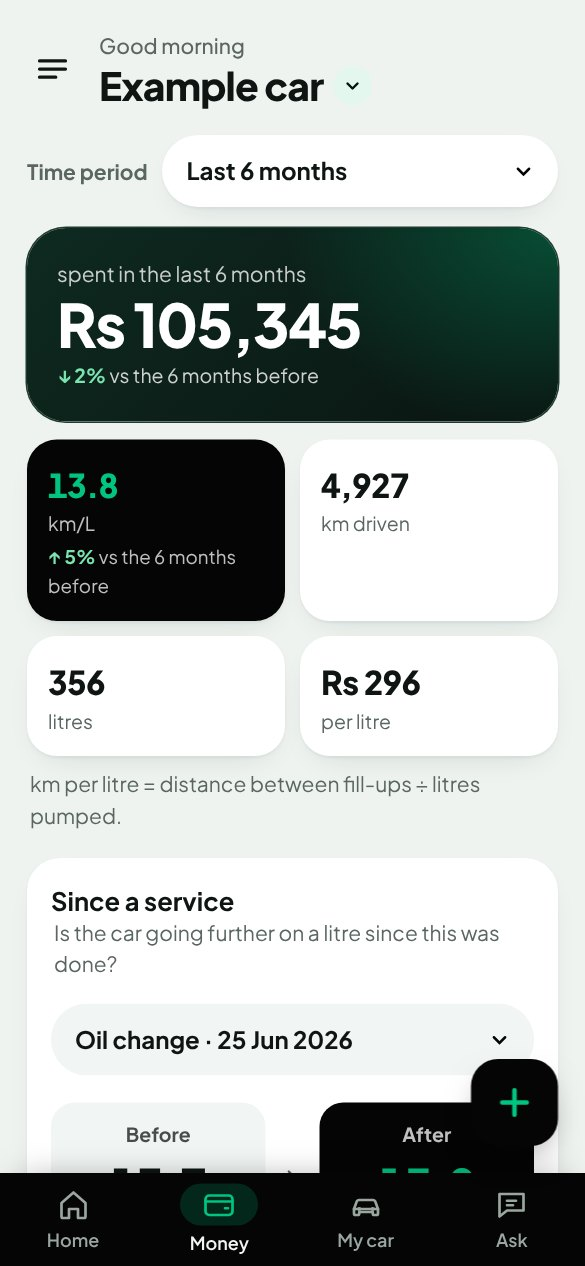
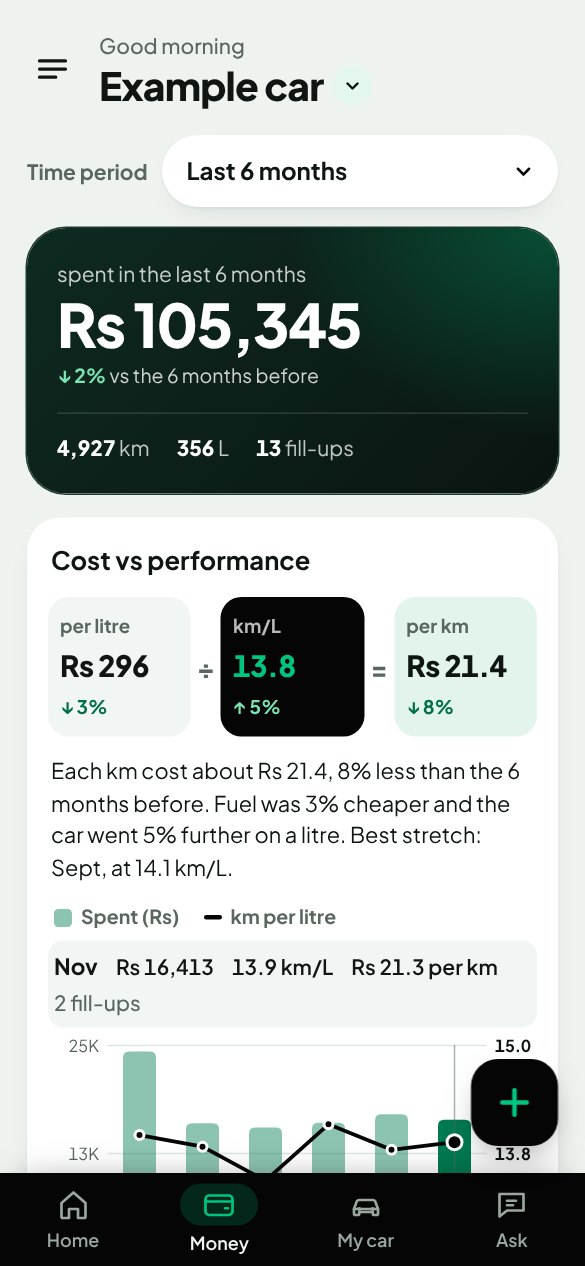
Money: cost vs performance analysis, combined spend and km/L chart, cost per km, last five fill-ups
Claude-Session: https://claude.ai/code/session_01FM4jDjDSFjWPSRL6SLVU9D

diff --git a/app.js b/app.js
@@ -341,14 +341,16 @@ function fuelStats(v, start, end) {
   const spent = rows.reduce((s, x) => s + x.total, 0), litres = rows.reduce((s, x) => s + x.litres, 0), k = rows.filter(x => x.kpl);
   const km = k.reduce((s, x) => s + x.dist, 0), kl = k.reduce((s, x) => s + x.litres, 0);
   // km per litre = distance driven between fill-ups / litres pumped (needs a full tank each time)
-  return { fills: rows.length, spent, litres, km, price: litres ? spent / litres : null, kpl: kl ? km / kl : null };
+  const price = litres ? spent / litres : null, kpl = kl ? km / kl : null;
+  // cost of each km driven = price per litre ÷ km per litre
+  return { fills: rows.length, spent, litres, km, price, kpl, ckm: price && kpl ? price / kpl : null };
 }
 function periodData(v, p) {
   const bs = buckets(p), start = bs[0].start, end = bs.at(-1).end;
   const span = daysTo(end) - daysTo(start), prevStart = addDaysISO(start, -span);
   // Only compare when the records reach back far enough to cover the whole earlier period.
   const first = mine(db.fuel, v).map(x => x.date).sort()[0], covered = first && daysTo(first) <= daysTo(prevStart) + 20;
-  const prev = covered ? fuelStats(v, prevStart, start) : { fills: 0, spent: 0, litres: 0, km: 0, price: null, kpl: null };
+  const prev = covered ? fuelStats(v, prevStart, start) : { fills: 0, spent: 0, litres: 0, km: 0, price: null, kpl: null, ckm: null };
   return { bs: bs.map(b => ({ ...b, ...fuelStats(v, b.start, b.end) })), cur: fuelStats(v, start, end), prev };
 }
 
@@ -981,72 +983,100 @@ function delta(cur, prev, goodWhenUp, per) {
   return `<span class="cmp"><span class="chg ${good ? 'up' : 'down'}">${pct > 0 ? '↑' : '↓'} ${Math.abs(r)}%</span> ${esc(t('vsPrev', t('prev_' + per)))}</span>`;
 }
 
+const fillRow = x => `<li><button class="item" data-act="fuelDetail" data-id="${x.id}"><span class="ic plain">${svg(ICONS.fuel)}</span><span class="it"><span class="t">${esc(t('rs', n0(x.total)))}</span><span class="s">${fmtD(x.date)}</span></span><span class="side">${x.kpl ? esc(t('kpl', n1(x.kpl))) : ''}${x.dist ? `<small>${esc(t('kmShort', n0(x.dist)))}</small>` : ''}</span><span class="chev">${svg(ICONS.chev)}</span></button></li>`;
+function allFills() {
+  const rows = fuelRows(veh()).reverse();
+  infoSheet(t('allFillsTitle'), `<ul class="list mini">${rows.map(fillRow).join('')}</ul>`, `<button class="btn wide" data-act="addFuel">${esc(t('addFuelTitle'))}</button>`);
+}
+const pctOf = (cur, prev) => cur != null && prev ? (cur - prev) / prev * 100 : null;
+// One cell of the cost equation: price per litre ÷ km per litre = cost per km.
+function eqCell(cls, label, val, pct, goodWhenUp) {
+  const chg = pct == null ? '' : Math.abs(pct) < 1 ? `<span class="cmp">${esc(t('flat'))}</span>`
+    : `<span class="cmp"><span class="chg ${(pct > 0) === goodWhenUp ? 'up' : 'down'}">${pct > 0 ? '↑' : '↓'} ${Math.abs(Math.round(pct))}%</span></span>`;
+  return `<div class="eq-c ${cls}"><span class="l">${esc(label)}</span><span class="n">${val}</span>${chg}</div>`;
+}
 function viewMoney(v) {
   const rows = fuelRows(v).reverse();
   const yearAgo = addDaysISO(todayISO(), -365), svcSpent = mine(db.service, v).filter(s => s.date >= yearAgo).reduce((s, x) => s + (x.cost || 0), 0);
   if (!rows.length) return `${header(v)}<div class="empty"><b>${esc(t('noFuelTitle'))}</b>${esc(t('noFuelText'))}</div><div class="actions"><button class="btn wide" data-act="addFuel">${esc(t('addFuelTitle'))}</button></div>`;
   const d = periodData(v, period), c = d.cur, p = d.prev, nudge = fuelNudge(v);
+  const pp = pctOf(c.price, p.price), kp = pctOf(c.kpl, p.kpl), cp = pctOf(c.ckm, p.ckm);
+  // Plain-words reading of the numbers: what moved the cost of each km.
+  let insight = c.ckm ? t('insCkm', n1(c.ckm)) : t('insNoKpl');
+  if (cp != null && pp != null && kp != null) insight = t('insCkmChg', n1(c.ckm), Math.abs(Math.round(cp)), cp < 0, Math.abs(cp) < 1, t('prev_' + period)) + ' ' + t('insWhy', Math.abs(Math.round(pp)), pp > 0, Math.abs(pp) < 1, Math.abs(Math.round(kp)), kp > 0, Math.abs(kp) < 1);
+  const best = d.bs.filter(x => x.kpl).sort((x, y) => y.kpl - x.kpl)[0];
+  if (best && d.bs.filter(x => x.kpl).length > 2) insight += ' ' + t('insBest', best.label, n1(best.kpl));
   return `${header(v)}
   ${nudge ? nudgeCard(nudge) : ''}
   <div class="period"><label for="periodSel">${esc(t('periodLabel'))}</label><select id="periodSel" class="pill-select">${PERIODS.map(k => `<option value="${k}" ${k === period ? 'selected' : ''}>${esc(t('pl_' + k))}</option>`).join('')}</select></div>
   ${period === 'C' ? `<div class="two range"><div><label for="cFrom">${esc(t('fromDate'))}</label><input type="date" id="cFrom" value="${cFrom}" max="${cTo}"></div><div><label for="cTo">${esc(t('toDate'))}</label><input type="date" id="cTo" value="${cTo}" min="${cFrom}" max="${todayISO()}"></div></div>` : ''}
-  <section class="hero-num"><p class="l">${esc(t('spentIn', t('per_' + period, fmtD(cFrom), fmtD(cTo))))}</p><p class="n">${esc(t('rs', n0(c.spent)))}</p>${delta(c.spent, p.spent, false, period)}</section>
-  <div class="stats">
-    <div class="stat key"><span class="n">${c.kpl ? n1(c.kpl) : '–'}</span><span class="l">${esc(t('kplUnit'))}</span>${c.kpl && p.kpl ? delta(c.kpl, p.kpl, true, period) : ''}</div>
-    <div class="stat"><span class="n">${c.km ? n0(c.km) : '–'}</span><span class="l">${esc(t('kmDriven'))}</span></div>
-    <div class="stat"><span class="n">${n0(c.litres)}</span><span class="l">${esc(t('litresWord'))}</span></div>
-    <div class="stat"><span class="n">${c.price ? esc(t('rs', n0(c.price))) : '–'}</span><span class="l">${esc(t('perLitre'))}</span></div>
-  </div>
-  <p class="hint kpl-how">${esc(t('kplHow'))}</p>
-  ${perfCard(v)}
-  <section class="chart-card">
+  <section class="hero-num"><p class="l">${esc(t('spentIn', t('per_' + period, fmtD(cFrom), fmtD(cTo))))}</p><p class="n">${esc(t('rs', n0(c.spent)))}</p>${delta(c.spent, p.spent, false, period)}
+    <div class="hero-sub"><span><b>${n0(c.km)}</b> ${esc(t('km'))}</span><span><b>${n0(c.litres)}</b> ${esc(t('litreUnit'))}</span><span><b>${c.fills}</b> ${esc(t('colFills').toLowerCase())}</span></div></section>
+  <section class="anal">
+    <h2>${esc(t('costVsPerf'))}</h2>
+    <div class="eq">
+      ${eqCell('', t('perLitre'), c.price ? esc(t('rs', n0(c.price))) : '–', pp, false)}<span class="eq-op">÷</span>
+      ${eqCell('key', t('kplUnit'), c.kpl ? n1(c.kpl) : '–', kp, true)}<span class="eq-op">=</span>
+      ${eqCell('res', t('rsPerKm'), c.ckm ? esc(t('rs', n1(c.ckm))) : '–', cp, false)}
+    </div>
+    <p class="insight">${esc(insight)}</p>
+    <div class="legend"><span><i class="sw bar"></i>${esc(t('legSpent'))}</span><span><i class="sw ln"></i>${esc(t('legKpl'))}</span></div>
     <div class="readout" id="readout" aria-live="polite"></div>
-    <p class="chart-h">${esc(t('chartSpent'))}</p><div class="chart" id="ch-spent"></div>
-    <p class="chart-h">${esc(t('chartPrice'))}</p><div class="chart" id="ch-price"></div>
-    <details class="tbl"><summary>${esc(t('seeNumbers'))}</summary><div class="tbl-wrap"><table><thead><tr><th>${esc(t('colPeriod'))}</th><th>${esc(t('colSpent'))}</th><th>${esc(t('colPrice'))}</th><th>${esc(t('colFills'))}</th></tr></thead>
-      <tbody>${d.bs.slice().reverse().map(b => `<tr><td>${esc(b.label)}</td><td>${b.fills ? esc(t('rs', n0(b.spent))) : '–'}</td><td>${b.price ? esc(t('rs', n1(b.price))) : '–'}</td><td>${b.fills}</td></tr>`).join('')}</tbody></table></div></details>
+    <div class="chart" id="ch-combo"></div>
+    <p class="chart-h">${esc(t('chartCkm'))}</p><div class="chart" id="ch-ckm"></div>
+    <details class="tbl"><summary>${esc(t('seeNumbers'))}</summary><div class="tbl-wrap"><table><thead><tr><th>${esc(t('colPeriod'))}</th><th>${esc(t('colSpent'))}</th><th>${esc(t('kplUnit'))}</th><th>${esc(t('colCkm'))}</th><th>${esc(t('colPrice'))}</th></tr></thead>
+      <tbody>${d.bs.slice().reverse().map(b => `<tr><td>${esc(b.label)}</td><td>${b.fills ? esc(t('rs', n0(b.spent))) : '–'}</td><td>${b.kpl ? n1(b.kpl) : '–'}</td><td>${b.ckm ? n1(b.ckm) : '–'}</td><td>${b.price ? n0(b.price) : '–'}</td></tr>`).join('')}</tbody></table></div></details>
+    <p class="hint kpl-how">${esc(t('kplHow'))}</p>
   </section>
+  ${perfCard(v)}
   <div class="stats one"><div class="stat"><span class="n">${esc(t('rs', n0(svcSpent)))}</span><span class="l">${esc(t('svcSpent12'))}</span></div></div>
-  <h2>${esc(t('fillUps'))}</h2>
-  <ul class="list">${rows.slice(0, 20).map(x => `<li><button class="item" data-act="fuelDetail" data-id="${x.id}"><span class="ic plain">${svg(ICONS.fuel)}</span><span class="it"><span class="t">${esc(t('rs', n0(x.total)))}</span><span class="s">${fmtD(x.date)}</span></span><span class="side">${x.kpl ? esc(t('kpl', n1(x.kpl))) : ''}${x.dist ? `<small>${esc(t('kmShort', n0(x.dist)))}</small>` : ''}</span><span class="chev">${svg(ICONS.chev)}</span></button></li>`).join('')}</ul>
-  ${rows.length > 20 ? `<p class="hint">${esc(t('showingRecent', 20, rows.length))}</p>` : ''}
-  <p class="hint">${esc(t('fillAssumption'))}</p>
-  <p class="hint">${esc(t('stationNote'))}</p>`;
+  <div class="sec-h"><h2>${esc(t('recentFills'))}</h2>${rows.length > 5 ? `<button class="link-btn" data-act="allFills">${esc(t('seeAllFills', rows.length))}</button>` : ''}</div>
+  <ul class="list">${rows.slice(0, 5).map(fillRow).join('')}</ul>
+  <p class="hint">${esc(t('fillAssumption'))} ${esc(t('stationNote'))}</p>`;
 }
 
 // ---------- charts (hand-drawn SVG, works offline) ----------
 const compact = n => n >= 1e6 ? n1(n / 1e6) + 'M' : n >= 1e4 ? Math.round(n / 1e3) + 'K' : n0(n);
 function niceMax(m) { if (!(m > 0)) return 1; const p = 10 ** Math.floor(Math.log10(m)), f = m / p; return (f <= 1 ? 1 : f <= 2 ? 2 : f <= 2.5 ? 2.5 : f <= 5 ? 5 : 10) * p; }
 function drawFuelCharts(v) {
-  const sp = $('#ch-spent'), pr = $('#ch-price'); if (!sp || !pr) return;
+  const cb = $('#ch-combo'), ck = $('#ch-ckm'); if (!cb || !ck) return;
   const d = periodData(v, period), bs = d.bs, n = bs.length;
   if (fsel == null || fsel >= n) fsel = n - 1;
-  const W = Math.max(260, sp.clientWidth), H = 140, L = 44, Rr = 8, T = 10, B = 26, iw = W - L - Rr, ih = H - T - B, slot = iw / n;
-  const every = Math.ceil(n / Math.max(3, Math.floor(iw / 52)));
-  const xLabels = bs.map((b, i) => (i % every === (n - 1) % every) ? `<text class="ax" x="${L + slot * i + slot / 2}" y="${H - 8}" text-anchor="middle">${esc(b.label)}</text>` : '').join('');
-  const hits = bs.map((b, i) => `<rect class="hit" data-i="${i}" x="${L + slot * i}" y="${T}" width="${slot}" height="${ih}" tabindex="0" aria-label="${esc(b.label)}"></rect>`).join('');
-  const sMax = niceMax(Math.max(...bs.map(b => b.spent)));
-  const yS = val => T + ih - val / sMax * ih, bw = Math.min(24, Math.max(3, slot - 2));
-  const grid = (max, fmt) => [0, 0.5, 1].map(f => `<line class="grid" x1="${L}" x2="${W - Rr}" y1="${T + ih - f * ih}" y2="${T + ih - f * ih}"></line><text class="ax" x="${L - 6}" y="${T + ih - f * ih + 4}" text-anchor="end">${esc(fmt(max * f))}</text>`).join('');
-  const bars = bs.map((b, i) => { if (!b.spent) return ''; const x = L + slot * i + (slot - bw) / 2, y = yS(b.spent), h = T + ih - y, r = Math.min(4, bw / 2, h);
-    return `<path class="bar ${i === fsel ? 'sel' : ''}" data-b="${i}" d="M${x} ${T + ih}V${y + r}Q${x} ${y} ${x + r} ${y}H${x + bw - r}Q${x + bw} ${y} ${x + bw} ${y + r}V${T + ih}Z"></path>`; }).join('');
-  sp.innerHTML = `<svg width="${W}" height="${H}" viewBox="0 0 ${W} ${H}" role="img" aria-label="${esc(t('chartSpent'))}">${grid(sMax, compact)}${bars}${xLabels}${hits}</svg>`;
-  const ps = bs.map(b => b.price).filter(Boolean);
-  if (!ps.length) pr.innerHTML = `<p class="hint">${esc(t('noFuelInPeriod'))}</p>`;
+  const W = Math.max(260, cb.clientWidth), L = 40, T = 12, B = 24;
+  const every = Math.ceil(n / Math.max(3, Math.floor((W - 80) / 52)));
+  const frame = (H, R) => { const iw = W - L - R, ih = H - T - B, slot = iw / n; return { H, R, iw, ih, slot, cx: i => L + slot * i + slot / 2 }; };
+  const xLabels = f => bs.map((b, i) => (i % every === (n - 1) % every) ? `<text class="ax" x="${f.cx(i)}" y="${f.H - 6}" text-anchor="middle">${esc(b.label)}</text>` : '').join('');
+  const hits = f => bs.map((b, i) => `<rect class="hit" data-i="${i}" x="${L + f.slot * i}" y="${T}" width="${f.slot}" height="${f.ih}" tabindex="0" aria-label="${esc(b.label)}"></rect>`).join('');
+  // a padded range for a line, so small changes are visible but not exaggerated
+  const span = (vals, step) => { let lo = Math.min(...vals), hi = Math.max(...vals); const pad = Math.max(step, (hi - lo) * 0.3); return [Math.max(0, Math.floor((lo - pad) / step) * step), Math.ceil((hi + pad) / step) * step]; };
+  const linePath = (f, key, y) => { let path = '', pen = false; bs.forEach((b, i) => { if (!b[key]) { pen = false; return; } path += `${pen ? 'L' : 'M'}${f.cx(i)} ${y(b[key])}`; pen = true; }); return path; };
+  const dots = (f, key, y, cls) => bs.map((b, i) => b[key] ? `<circle class="pt ${cls} ${i === fsel ? 'sel' : ''}" data-b="${i}" cx="${f.cx(i)}" cy="${y(b[key])}" r="${i === fsel ? 5 : (n > 24 ? 0 : 3)}"></circle>` : '').join('');
+  const cross = (f, id) => `<line class="cross" id="${id}" x1="0" x2="0" y1="${T}" y2="${T + f.ih}"></line>`;
+
+  // 1. Spend (bars, left axis) against km per litre (line, right axis)
+  const f1 = frame(180, 34), sMax = niceMax(Math.max(...bs.map(b => b.spent)));
+  const yS = val => T + f1.ih - val / sMax * f1.ih, bw = Math.min(22, Math.max(3, f1.slot - 3));
+  const ks = bs.map(b => b.kpl).filter(Boolean), [kLo, kHi] = ks.length ? span(ks, 0.5) : [0, 1], yK = val => T + f1.ih - (val - kLo) / (kHi - kLo) * f1.ih;
+  const grid1 = [0, 0.5, 1].map(q => `<line class="grid" x1="${L}" x2="${W - f1.R}" y1="${T + f1.ih - q * f1.ih}" y2="${T + f1.ih - q * f1.ih}"></line><text class="ax" x="${L - 6}" y="${T + f1.ih - q * f1.ih + 4}" text-anchor="end">${esc(compact(sMax * q))}</text>${ks.length ? `<text class="ax k" x="${W - f1.R + 6}" y="${T + f1.ih - q * f1.ih + 4}">${esc(n1(kLo + (kHi - kLo) * q))}</text>` : ''}`).join('');
+  const bars = bs.map((b, i) => { if (!b.spent) return ''; const x = L + f1.slot * i + (f1.slot - bw) / 2, y = yS(b.spent), h = T + f1.ih - y, r = Math.min(4, bw / 2, h);
+    return `<path class="bar ${i === fsel ? 'sel' : ''}" data-b="${i}" d="M${x} ${T + f1.ih}V${y + r}Q${x} ${y} ${x + r} ${y}H${x + bw - r}Q${x + bw} ${y} ${x + bw} ${y + r}V${T + f1.ih}Z"></path>`; }).join('');
+  cb.innerHTML = `<svg width="${W}" height="${f1.H}" viewBox="0 0 ${W} ${f1.H}" role="img" aria-label="${esc(t('chartCombo'))}">${grid1}${bars}${cross(f1, 'cross1')}<path class="line k" d="${linePath(f1, 'kpl', yK)}"></path>${dots(f1, 'kpl', yK, 'k')}${xLabels(f1)}${hits(f1)}</svg>`;
+
+  // 2. What each km cost (price per litre ÷ km per litre)
+  const f2 = frame(130, 10), cs = bs.map(b => b.ckm).filter(Boolean);
+  if (!cs.length) ck.innerHTML = `<p class="hint">${esc(t('noFuelInPeriod'))}</p>`;
   else {
-    let lo = Math.min(...ps), hi = Math.max(...ps); const pad = Math.max(5, (hi - lo) * 0.25); lo = Math.max(0, Math.floor((lo - pad) / 10) * 10); hi = Math.ceil((hi + pad) / 10) * 10;
-    const yP = val => T + ih - (val - lo) / (hi - lo) * ih;
-    let path = '', pen = false;
-    bs.forEach((b, i) => { if (!b.price) { pen = false; return; } path += `${pen ? 'L' : 'M'}${L + slot * i + slot / 2} ${yP(b.price)}`; pen = true; });
-    const pgrid = [0, 0.5, 1].map(f => { const val = lo + (hi - lo) * f; return `<line class="grid" x1="${L}" x2="${W - Rr}" y1="${yP(val)}" y2="${yP(val)}"></line><text class="ax" x="${L - 6}" y="${yP(val) + 4}" text-anchor="end">${esc(n0(val))}</text>`; }).join('');
-    const dots = bs.map((b, i) => b.price ? `<circle class="pt ${i === fsel ? 'sel' : ''}" data-b="${i}" cx="${L + slot * i + slot / 2}" cy="${yP(b.price)}" r="${i === fsel ? 5 : (n > 24 ? 0 : 3.5)}"></circle>` : '').join('');
-    pr.innerHTML = `<svg width="${W}" height="${H}" viewBox="0 0 ${W} ${H}" role="img" aria-label="${esc(t('chartPrice'))}">${pgrid}<line class="cross" id="cross" x1="0" x2="0" y1="${T}" y2="${T + ih}"></line><path class="line" d="${path}"></path>${dots}${xLabels}${hits}</svg>`;
+    const [cLo, cHi] = span(cs, 1), yC = val => T + f2.ih - (val - cLo) / (cHi - cLo) * f2.ih, path = linePath(f2, 'ckm', yC);
+    const pts = bs.map((b, i) => b.ckm ? [f2.cx(i), yC(b.ckm)] : null).filter(Boolean);
+    const area = pts.length > 1 ? `<path class="area" d="M${pts[0][0]} ${T + f2.ih}${pts.map(q => `L${q[0]} ${q[1]}`).join('')}L${pts.at(-1)[0]} ${T + f2.ih}Z"></path>` : '';
+    const grid2 = [0, 0.5, 1].map(q => { const val = cLo + (cHi - cLo) * q; return `<line class="grid" x1="${L}" x2="${W - f2.R}" y1="${yC(val)}" y2="${yC(val)}"></line><text class="ax" x="${L - 6}" y="${yC(val) + 4}" text-anchor="end">${esc(n1(val))}</text>`; }).join('');
+    ck.innerHTML = `<svg width="${W}" height="${f2.H}" viewBox="0 0 ${W} ${f2.H}" role="img" aria-label="${esc(t('chartCkm'))}">${grid2}${area}${cross(f2, 'cross2')}<path class="line" d="${path}"></path>${dots(f2, 'ckm', yC, '')}${xLabels(f2)}${hits(f2)}</svg>`;
   }
   const select = i => {
     fsel = i; const b = bs[i];
-    $('#readout').innerHTML = `<b>${esc(b.label)}</b><span>${esc(b.fills ? t('rs', n0(b.spent)) : t('noFills'))}</span>${b.price ? `<span>${esc(t('perLitreVal', n1(b.price)))}</span>` : ''}<span class="mut">${esc(t('fillsCount', b.fills))}</span>`;
-    document.querySelectorAll('#ch-spent .bar, #ch-price .pt').forEach(el => { const on = +el.dataset.b === i; el.classList.toggle('sel', on); if (el.tagName === 'circle') el.setAttribute('r', on ? 5 : (n > 24 ? 0 : 3.5)); });
-    const cr = $('#cross'); if (cr) { const x = L + slot * i + slot / 2; cr.setAttribute('x1', x); cr.setAttribute('x2', x); }
+    $('#readout').innerHTML = `<b>${esc(b.label)}</b><span>${esc(b.fills ? t('rs', n0(b.spent)) : t('noFills'))}</span>${b.kpl ? `<span class="k">${esc(t('kpl', n1(b.kpl)))}</span>` : ''}${b.ckm ? `<span>${esc(t('ckmVal', n1(b.ckm)))}</span>` : ''}<span class="mut">${esc(t('fillsCount', b.fills))}</span>`;
+    document.querySelectorAll('#ch-combo .bar, .chart .pt').forEach(el => { const on = +el.dataset.b === i; el.classList.toggle('sel', on); if (el.tagName === 'circle') el.setAttribute('r', on ? 5 : (n > 24 ? 0 : 3)); });
+    [['#cross1', f1], ['#cross2', f2]].forEach(([id, f]) => { const cr = $(id); if (cr) { cr.setAttribute('x1', f.cx(i)); cr.setAttribute('x2', f.cx(i)); } });
   };
   document.querySelectorAll('.chart .hit').forEach(h => { const i = +h.dataset.i; h.addEventListener('pointerenter', () => select(i)); h.addEventListener('click', () => select(i)); h.addEventListener('focus', () => select(i)); });
   select(fsel);
@@ -1387,6 +1417,7 @@ document.addEventListener('click', e => {
     case 'detail': return itemDetail(el.dataset.key);
     case 'svcDetail': return serviceDetail(id);
     case 'fuelDetail': return fuelDetail(id);
+    case 'allFills': return allFills();
     case 'serviceList': return serviceList();
     case 'track': return trackForm(el.dataset.comp);
     case 'pickPart': return pickPart(el.dataset.id);

diff --git a/styles.css b/styles.css
@@ -751,3 +751,34 @@ body { background: var(--bg); color: var(--fg); }
 .perf-arrow svg { width: 20px; height: 20px; color: var(--mut); }
 .perf-res { margin: 12px 0 6px; text-align: center; font-weight: 800; font-size: 17px; }
 .perf-wait { margin-top: 10px; }
+
+/* ---------- Money as an analysis page: cost vs performance ---------- */
+.hero-sub { display: flex; flex-wrap: wrap; gap: 6px 18px; margin-top: 14px; padding-top: 12px; border-top: 1px solid rgba(255, 255, 255, .14); color: rgba(255, 255, 255, .75); font-size: 14px; }
+.hero-sub b { color: #fff; font-weight: 800; font-variant-numeric: tabular-nums; }
+.anal { margin-top: 16px; padding: 16px 14px 12px; border-radius: 22px; background: var(--surface); box-shadow: var(--lift); }
+.anal h2 { margin: 0 2px 12px; }
+.eq { display: grid; grid-template-columns: 1fr auto 1fr auto 1fr; align-items: stretch; gap: 4px; }
+.eq-c { display: flex; flex-direction: column; gap: 2px; min-width: 0; padding: 10px 8px; border-radius: 14px; background: var(--surface-2); }
+.eq-c .l { font-size: 12.5px; font-weight: 700; color: var(--mut); }
+.eq-c .n { font-size: clamp(17px, 5vw, 21px); font-weight: 800; letter-spacing: -0.02em; font-variant-numeric: tabular-nums; overflow-wrap: anywhere; }
+.eq-c .cmp { font-size: 12.5px; }
+.eq-c.key { background: #050505; color: #fff; }
+.eq-c.key .n { color: #00C47F; }
+.eq-c.key .l, .eq-c.key .cmp { color: rgba(255, 255, 255, .72); }
+.eq-c.key .chg.up { color: #7BE3B0; } .eq-c.key .chg.down { color: #FFD27A; }
+.eq-c.res { background: var(--green-tint, #E3F4EC); }
+.eq-op { align-self: center; color: var(--mut); font-weight: 800; font-size: 18px; }
+.insight { margin: 12px 2px 6px; font-size: 14.5px; line-height: 1.5; }
+.legend { display: flex; flex-wrap: wrap; gap: 6px 16px; margin: 12px 4px 6px; color: var(--mut); font-size: 13px; font-weight: 700; }
+.legend span { display: inline-flex; align-items: center; gap: 6px; }
+.sw { display: inline-block; width: 12px; height: 12px; border-radius: 3px; }
+.sw.bar { background: var(--green); opacity: .45; }
+.sw.ln { height: 3px; border-radius: 2px; background: #050505; }
+.anal .readout { border-bottom: 0; padding: 6px 4px; border-radius: 10px; background: var(--surface-2); }
+.readout .k { color: var(--fg); }
+.chart .line.k { stroke: #050505; stroke-width: 2.5; }
+.chart .pt.k { fill: #050505; stroke: #fff; }
+.chart .ax.k { fill: var(--fg); font-weight: 700; }
+.chart .area { fill: var(--green); opacity: .1; stroke: none; }
+.anal .chart-h { margin-top: 14px; }
+@media (max-width: 360px) { .eq { grid-template-columns: 1fr 1fr 1fr; } .eq-op { display: none; } }

diff --git a/strings.js b/strings.js
@@ -1087,6 +1087,23 @@ const STRINGS = {
     litreUnit: 'L',
     litresIn: n => `litres over ${n} ${n === 1 ? 'fill-up' : 'fill-ups'}`,
     noPrevious: 'Nothing to compare with yet',
+    costVsPerf: "Cost vs performance",
+    rsPerKm: "per km",
+    legSpent: "Spent (Rs)",
+    legKpl: "km per litre",
+    chartCombo: "Spent on fuel and km per litre",
+    chartCkm: "What each km cost (Rs)",
+    colCkm: "Rs/km",
+    flat: "Steady",
+    recentFills: "Recent fill-ups",
+    allFillsTitle: "All fill-ups",
+    insNoKpl: "Add a few full-tank fill-ups to see what each km costs.",
+    ckmVal: p => `Rs ${p} per km`,
+    seeAllFills: n => `See all ${n}`,
+    insCkm: rs => `Each km cost about Rs ${rs}.`,
+    insCkmChg: (rs, pct, less, same, per) => same ? `Each km cost about Rs ${rs}, the same as ${per}.` : `Each km cost about Rs ${rs}, ${pct}% ${less ? "less" : "more"} than ${per}.`,
+    insWhy: (pp, pUp, pSame, kp, kUp, kSame) => `${pSame ? "Fuel prices held steady" : `Fuel was ${pp}% ${pUp ? "dearer" : "cheaper"}`} and ${kSame ? "the car went about as far on a litre" : `the car went ${kp}% ${kUp ? "further" : "less far"} on a litre`}.`,
+    insBest: (lbl, k) => `Best stretch: ${lbl}, at ${k} km/L.`,
     pl_1M: "Last month",
     pl_6M: "Last 6 months",
     pl_1Y: "Last year",

diff --git a/sw.js b/sw.js
@@ -2,7 +2,7 @@
 /* CarBook offline support.
    Keeps a copy of the app's files on the phone so it opens without internet.
    When you change any app file, bump VERSION so phones fetch the new copy. */
-const VERSION = 'carbook-v33';
+const VERSION = 'carbook-v34';
 const FILES = ['./', 'index.html', 'styles.css', 'strings.js', 'catalogue.js', 'app.js', 'manifest.webmanifest', 'icon.svg', 'privacy.html', 'icon-192.png', 'icon-512.png', 'icon-maskable-512.png'];
 const FONT_CACHE = 'carbook-fonts';
 

diff --git a/CLAUDE.md b/CLAUDE.md
@@ -24,7 +24,7 @@ Open a terminal in this folder and run `python3 -m http.server 8080`, then visit
 - **Parts catalogue (November 2026):** about 230 parts from the owner's maintenance checklist research (`research/maintenance-checklist/`), built into `catalogue.js` and `strings.js` (`cat_<id>_name`, `_check`, `_typical`) by `development/tools/build-catalogue.py`. On the Health tab owners type to search or browse by group, then add a part: they see how often to check it and its typical replacement, get a suggested reminder (the shorter end of the typical range, editable), can enter when it was last done, and can set their own reminder date. Condition-based parts have no suggested interval, only the owner's date. Picks are stored in `db.tracked` (`comp` is `c:<id>` or a built-in part); service records for catalogue parts use kind `c:<id>`. Any part, built-in or not, can have a reminder date.
 - **Your records:** one place for warranties, service records and part changes (`warrantyList`, `serviceList`, `PART_CHANGES`).
 - **Phase 1 (now):** deadlines and renewals, maintenance status with plain explanations, a year-ahead plan with estimated service dates, fuel and spending trends (1 month to 5 years, compared with the period before), service and fuel records, and Ask (a chat about the owner's records, plus questions for the mechanic).
-- **Fuel (November 2026):** a fill-up records amount spent, litres and the odometer; distance is the odometer gap since the previous fill-up, and km per litre is that distance divided by litres (`fuelRows`, `fuelStats`). Money opens with a period dropdown (last month, 6 months, year, 2 or 5 years, or the owner's own dates, `cFrom`/`cTo`) and shows km/L, km driven, litres and price per litre. "Since a service" (`perfSince`, `perfCard`) compares km/L over up to 5 fill-ups before a service with up to 6 whose whole stretch of driving came after it (at least 2 on each side), and always says traffic and driving also play a part; a clear drop suggests mentioning it to the mechanic, never a diagnosis. Home offers this itself ("How is your car doing since its engine tune-up?", `perfPrompt`) for a recent tune-up, spark plugs, air filter, oil change, tyres or alignment, once per garage visit (`v.perfSeen`). "Forgot a fill-up?" (`fuelNudge`) shows on Home and Money when the days or km since the last fill-up are well over the owner's usual gap; "Not yet" hides it for 4 days (`v.fuelSnooze`). The manifest has a "Log a fill-up" shortcut (long-press the icon, `?add=fuel`). Reminding owners when they are at a petrol station needs location and background notifications, so it waits for the Play Store app (step 7).
+- **Fuel (November 2026):** a fill-up records amount spent, litres and the odometer; distance is the odometer gap since the previous fill-up, and km per litre is that distance divided by litres (`fuelRows`, `fuelStats`). Money opens with a period dropdown (last month, 6 months, year, 2 or 5 years, or the owner's own dates, `cFrom`/`cTo`) and reads like an analysis page: the wallet card (spent, km, litres, fill-ups), then a Cost vs performance card with the cost equation (price per litre ÷ km per litre = cost per km, each with its change on the period before), a plain-words reading of what moved the cost and the best stretch, a combined chart (spend as bars, km per litre as a black line on its own axis), a cost-per-km chart and a table. Only the last five fill-ups are listed; See all opens the rest (`allFills`). "Since a service" (`perfSince`, `perfCard`) compares km/L over up to 5 fill-ups before a service with up to 6 whose whole stretch of driving came after it (at least 2 on each side), and always says traffic and driving also play a part; a clear drop suggests mentioning it to the mechanic, never a diagnosis. Home offers this itself ("How is your car doing since its engine tune-up?", `perfPrompt`) for a recent tune-up, spark plugs, air filter, oil change, tyres or alignment, once per garage visit (`v.perfSeen`). "Forgot a fill-up?" (`fuelNudge`) shows on Home and Money when the days or km since the last fill-up are well over the owner's usual gap; "Not yet" hides it for 4 days (`v.fuelSnooze`). The manifest has a "Log a fill-up" shortcut (long-press the icon, `?add=fuel`). Reminding owners when they are at a petrol station needs location and background notifications, so it waits for the Play Store app (step 7).
 - Estimated service dates use the owner's average km per day from the last year of records. Always label them "estimated".
 - Comparisons with an earlier period only show when the records cover all of that period.
 - **Phase 2 (later):** selective sharing, verification levels, garage-confirmed entries, maintenance score, buyer tools.
